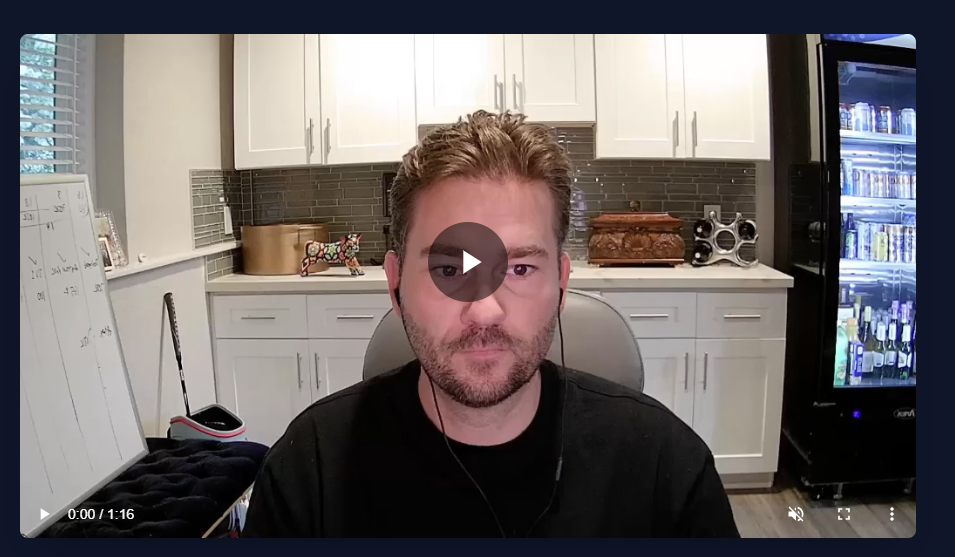
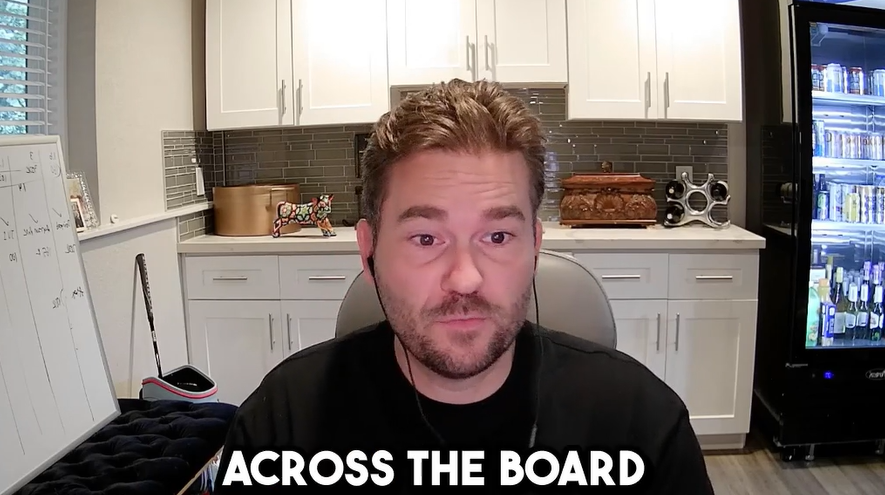
Add SMS/Email send window (9 AM-7 PM EST) and EST display on log page
- Add send-window.ts: snap scheduled times to 9 AM-7 PM Eastern, roll over to next day if outside
- Compiler: apply snapToSendingWindow for SMS and email jobs
- Cron: skip sending when outside allowed window
- formatDateTimeEST: add timeZoneName for clear EST/EDT display on SMS log
- gitignore: exclude local node-v* folder

diff --git a/lib/sequences/compiler.ts b/lib/sequences/compiler.ts
@@ -3,6 +3,7 @@
 
 import { SequenceSpec, SequenceNode, SendSmsNode, SendEmailNode, WaitNode, ConditionNode } from './spec';
 import { getOutgoingEdges } from './spec';
+import { snapToSendingWindow } from './send-window';
 
 export interface JobContext {
   lead_id: string;
@@ -180,18 +181,24 @@ function walkGraph(
       scheduledTime = new Date(currentTime); // Explicitly use currentTime (no delay)
     }
     console.log(`  - Message: ${renderedContent.substring(0, 50)}...`);
-    
+
+    // Snap to sending window (9 AM - 7 PM Eastern); roll over to next day if outside
+    const windowedTime = snapToSendingWindow(scheduledTime);
+    if (windowedTime.getTime() !== scheduledTime.getTime()) {
+      console.log(`  - Outside send window: snapped ${scheduledTime.toISOString()} -> ${windowedTime.toISOString()}`);
+    }
+
     jobs.push({
       run_id: context.run_id as string,
       node_id: currentNodeId,
       job_type: 'sms',
       phone_number: context.phone,
       message_text: renderedContent,
-      scheduled_for: scheduledTime.toISOString(),
+      scheduled_for: windowedTime.toISOString(),
     });
     
-    // Update currentTime to the scheduled time of this message
-    currentTime = new Date(scheduledTime);
+    // Update currentTime to the windowed scheduled time (used for next node's delay)
+    currentTime = new Date(windowedTime);
     console.log(`  - Updated currentTime to scheduled time: ${currentTime.toISOString()}`);
   } else if (node.type === 'send_email') {
     const emailNode = node as SendEmailNode;
@@ -226,7 +233,13 @@ function walkGraph(
     }
     console.log(`  - Subject: ${renderedSubject}`);
     console.log(`  - HTML length: ${renderedHtml.length} chars`);
-    
+
+    // Snap to sending window (9 AM - 7 PM Eastern); roll over to next day if outside
+    const windowedTime = snapToSendingWindow(scheduledTime);
+    if (windowedTime.getTime() !== scheduledTime.getTime()) {
+      console.log(`  - Outside send window: snapped ${scheduledTime.toISOString()} -> ${windowedTime.toISOString()}`);
+    }
+
     jobs.push({
       run_id: context.run_id as string,
       node_id: currentNodeId,
@@ -235,11 +248,11 @@ function walkGraph(
       email_subject: renderedSubject,
       email_html: renderedHtml,
       email_text: renderedText,
-      scheduled_for: scheduledTime.toISOString(),
+      scheduled_for: windowedTime.toISOString(),
     });
     
-    // Update currentTime to the scheduled time of this message
-    currentTime = new Date(scheduledTime);
+    // Update currentTime to the windowed scheduled time (used for next node's delay)
+    currentTime = new Date(windowedTime);
     console.log(`  - Updated currentTime to scheduled time: ${currentTime.toISOString()}`);
   } else if (node.type === 'wait') {
     // Keep wait node support for backward compatibility, but prefer SMS timing

diff --git a/lib/sequences/send-window.ts b/lib/sequences/send-window.ts
@@ -1,0 +1,71 @@
+/**
+ * Sending window for SMS and Email: 9 AM - 7 PM Eastern (America/New_York)
+ * Messages scheduled outside this window are rolled over to 9 AM the next day.
+ */
+
+const EASTERN_TIMEZONE = 'America/New_York';
+
+function getEasternParts(date: Date): { year: number; month: number; day: number; hour: number; minute: number } {
+  const formatter = new Intl.DateTimeFormat('en-US', {
+    timeZone: EASTERN_TIMEZONE,
+    year: 'numeric',
+    month: 'numeric',
+    day: 'numeric',
+    hour: 'numeric',
+    minute: 'numeric',
+    hour12: false,
+  });
+  const parts = formatter.formatToParts(date);
+  const get = (type: string) => parseInt(parts.find((p) => p.type === type)?.value ?? '0', 10);
+  return {
+    year: get('year'),
+    month: get('month'),
+    day: get('day'),
+    hour: get('hour'),
+    minute: get('minute'),
+  };
+}
+
+/** Create a Date representing 9:00 AM Eastern on the given calendar day */
+function get9AMEastern(year: number, month: number, day: number): Date {
+  // Try EST (UTC-5) and EDT (UTC-4) - one will be correct
+  const candidates = [
+    new Date(Date.UTC(year, month - 1, day, 14, 0, 0)), // 9 AM EST
+    new Date(Date.UTC(year, month - 1, day, 13, 0, 0)), // 9 AM EDT
+  ];
+  for (const c of candidates) {
+    const p = getEasternParts(c);
+    if (p.hour === 9 && p.minute === 0 && p.month === month && p.day === day && p.year === year) {
+      return c;
+    }
+  }
+  return candidates[0];
+}
+
+/**
+ * Snap a scheduled time into the sending window (9 AM - 7 PM Eastern).
+ * - Before 9 AM: snap to 9 AM same day
+ * - After 7 PM: roll over to 9 AM next day
+ */
+export function snapToSendingWindow(date: Date): Date {
+  const { year, month, day, hour } = getEasternParts(date);
+
+  if (hour < 9) {
+    return get9AMEastern(year, month, day);
+  }
+  if (hour >= 19) {
+    const today9AM = get9AMEastern(year, month, day);
+    const tomorrow = new Date(today9AM.getTime() + 24 * 60 * 60 * 1000);
+    const p = getEasternParts(tomorrow);
+    return get9AMEastern(p.year, p.month, p.day);
+  }
+  return new Date(date);
+}
+
+/**
+ * Check if a given time is within the sending window (9 AM - 7 PM Eastern).
+ */
+export function isWithinSendingWindow(date: Date): boolean {
+  const { hour } = getEasternParts(date);
+  return hour >= 9 && hour < 19;
+}

diff --git a/app/api/cron/send-due-messages/route.ts b/app/api/cron/send-due-messages/route.ts
@@ -2,6 +2,7 @@ import { NextRequest, NextResponse } from 'next/server';
 import { createClient } from '@supabase/supabase-js';
 import { sendSms } from '@/lib/sms/provider';
 import { sendEmail } from '@/lib/email/provider';
+import { isWithinSendingWindow } from '@/lib/sequences/send-window';
 
 // Force Node.js runtime (not Edge)
 export const runtime = 'nodejs';
@@ -76,7 +77,16 @@ export async function GET(request: NextRequest) {
 
   const supabase = createClient(supabaseUrl, supabaseServiceKey);
   const now = new Date();
-  const nowISO = now.toISOString();
+
+  // Only send during the allowed window: 9 AM - 7 PM Eastern
+  if (!isWithinSendingWindow(now)) {
+    console.log(`[Cron] Outside sending window (9 AM - 7 PM Eastern). Current time (Eastern): ${now.toLocaleString('en-US', { timeZone: 'America/New_York' })}. Skipping.`);
+    return NextResponse.json({
+      success: true,
+      processed: 0,
+      message: 'Outside sending window (9 AM - 7 PM Eastern)',
+    });
+  }
 
   try {
     // Use FOR UPDATE SKIP LOCKED to prevent double-sends

diff --git a/scripts/extract-video-poster.js b/scripts/extract-video-poster.js
@@ -1,0 +1,23 @@
+#!/usr/bin/env node
+/**
+ * Extract first frame from veritas-video.mp4 as a clean poster (no UI/controls).
+ * Run: npm run extract:poster
+ * Requires: ffmpeg in PATH (https://ffmpeg.org/download.html)
+ */
+const { execSync } = require('child_process');
+const path = require('path');
+
+const videoPath = path.join(__dirname, '../public/veritas-video.mp4');
+const outputPath = path.join(__dirname, '../public/veritas-video-poster.jpg');
+
+try {
+  execSync(`ffmpeg -i "${videoPath}" -vframes 1 -q:v 2 "${outputPath}" -y`, {
+    stdio: 'inherit',
+  });
+  console.log('Poster extracted to public/veritas-video-poster.jpg');
+  console.log('Update HeroVideoSection.tsx: poster="/veritas-video-poster.jpg"');
+} catch (e) {
+  console.error('ffmpeg not found. Install from https://ffmpeg.org/download.html');
+  console.error('Or run: scripts/extract-video-poster.bat');
+  process.exit(1);
+}

diff --git a/lib/admin/format.ts b/lib/admin/format.ts
@@ -89,7 +89,8 @@ export function formatDateEST(date: Date | string | number, options?: Intl.DateT
 }
 
 /**
- * Format date and time in EST (similar to date-fns format with 'PPpp')
+ * Format date and time in Eastern (EST/EDT)
+ * Uses America/New_York for consistent display across the app (e.g. SMS log page)
  */
 export function formatDateTimeEST(date: Date | string | number): string {
   return formatDateEST(date, {
@@ -99,6 +100,7 @@ export function formatDateTimeEST(date: Date | string | number): string {
     hour: '2-digit',
     minute: '2-digit',
     hour12: true,
+    timeZoneName: 'short', // e.g. "EST" or "EDT"
   });
 }
 
